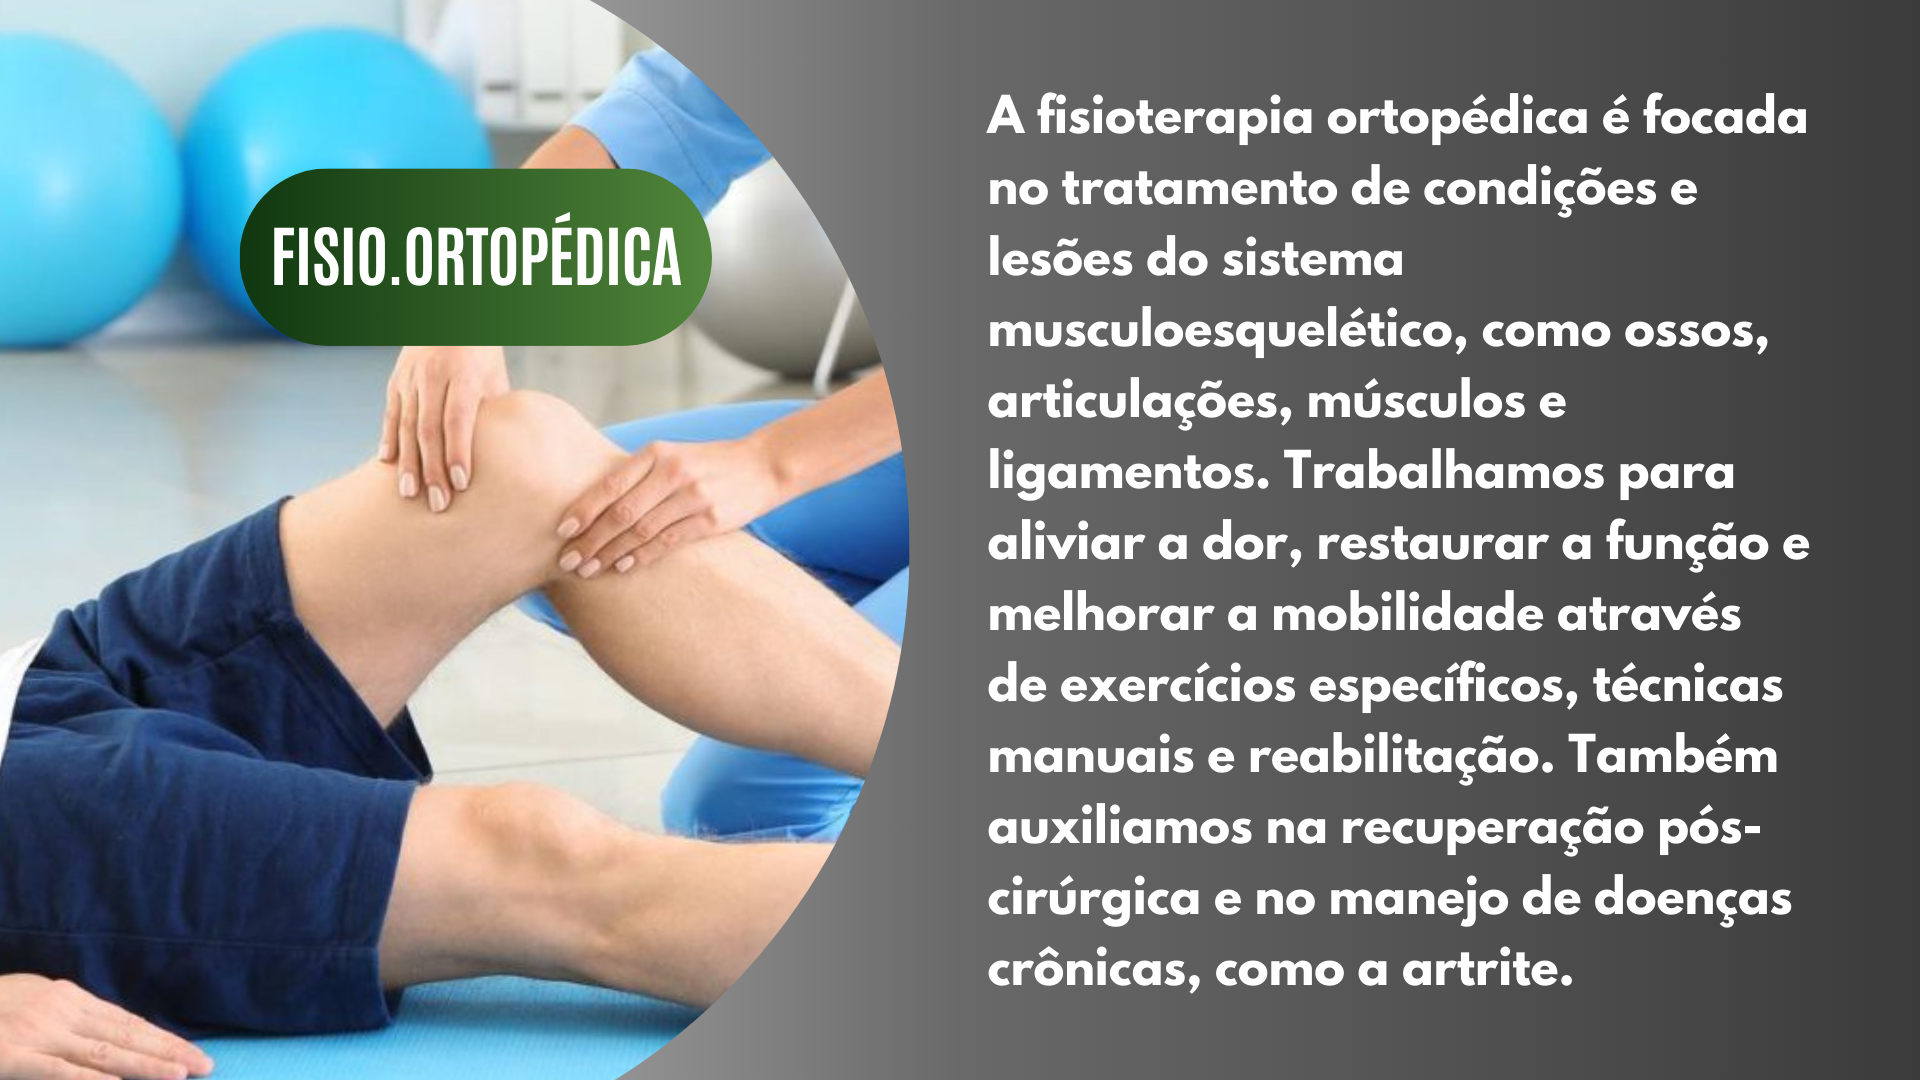
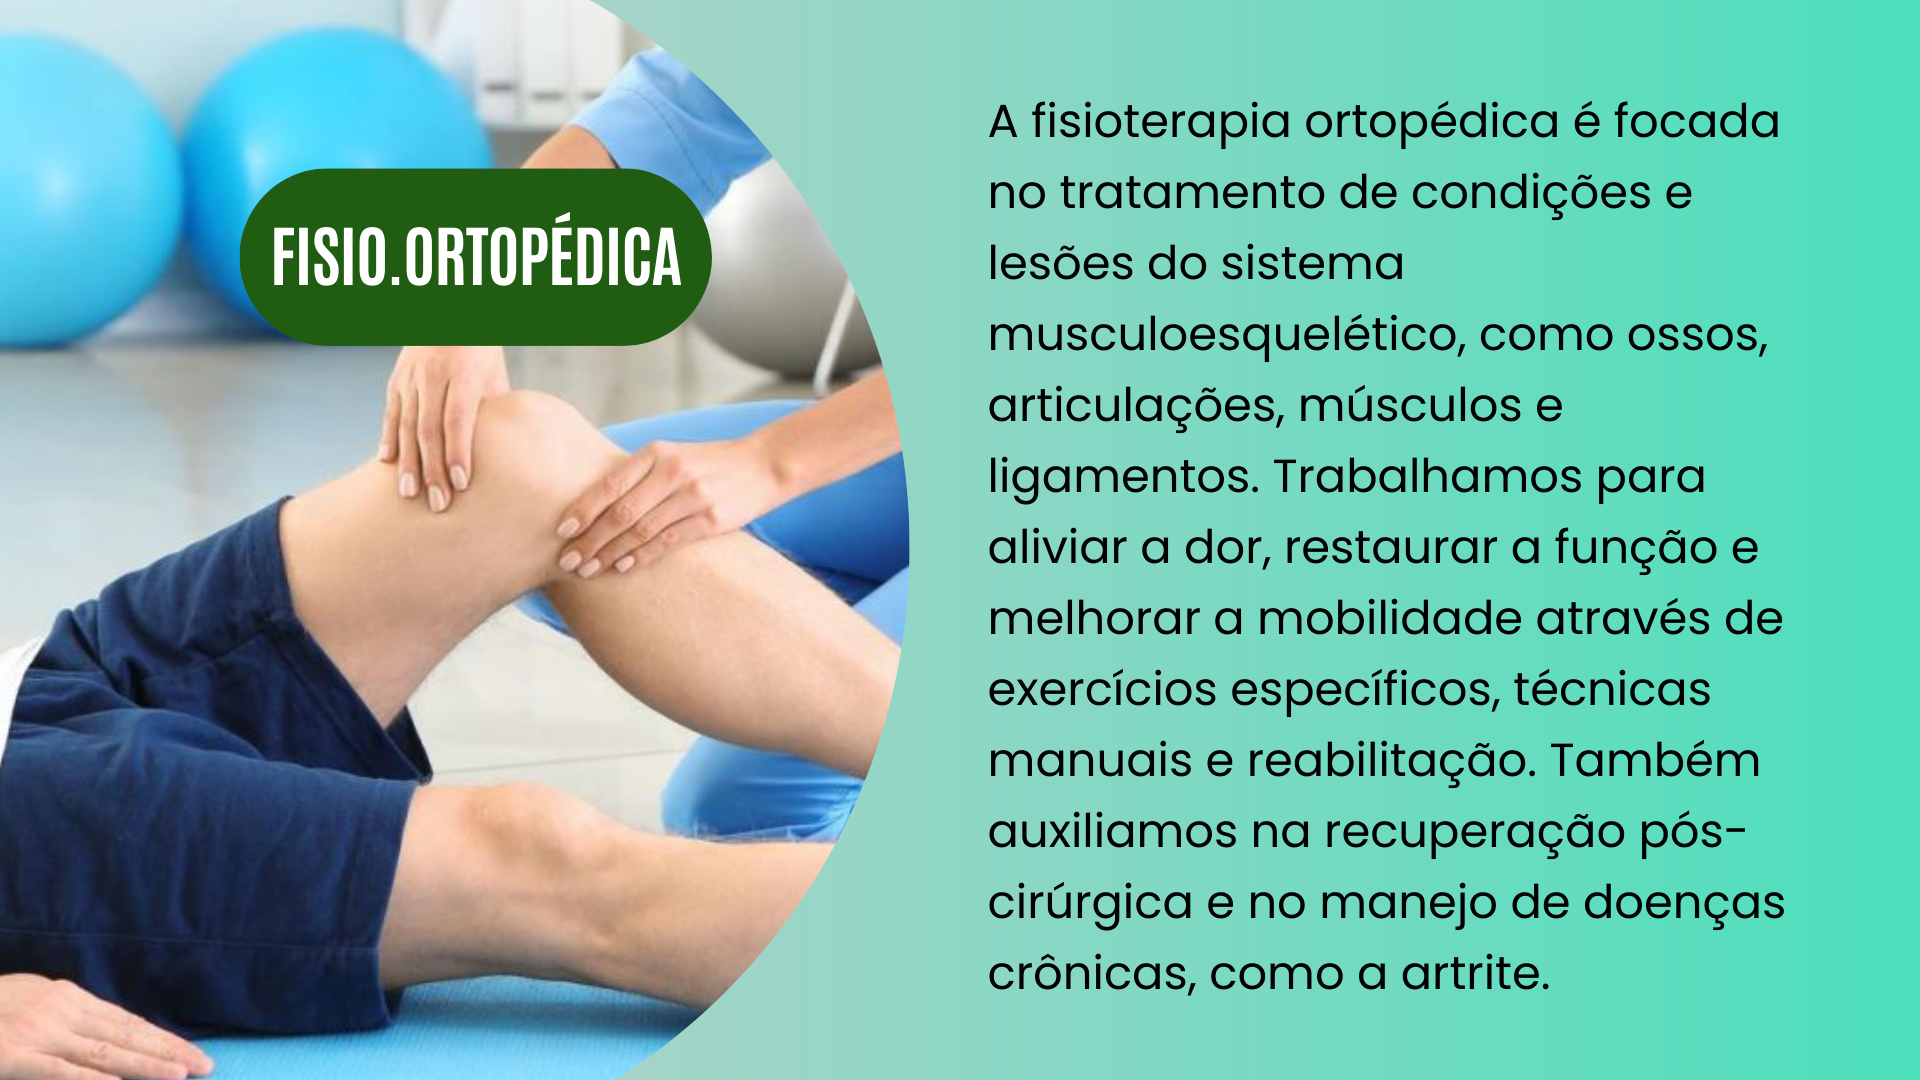
novo layout2

diff --git a/projeto fisioterapia copia/CSS/styles2.css b/projeto fisioterapia copia/CSS/styles2.css
@@ -41,18 +41,18 @@ nav li{
   width: 40%;
   margin-top: -120px;
   float: right;
-  background-color: #332c2c;
+  background-color: #ffffff;
   border-radius: 6px;
   padding: 10px;
 }
 nav button{
   background: none;
   border: none;
-  color: #ffffff;
+  color: #000000;
 }
 nav button:hover {
   background-color: #167025ce;
-  color: rgb(255, 255, 255);
+  color: rgb(0, 0, 0);
   font-size: 14px;
   transition: 0.7s;
   border-radius: 4px;
@@ -67,7 +67,7 @@ section {
   position: relative;
   width: 100%;
   height: 30vh;
-  background: #434444;
+  background: #167025ce;
   overflow: hidden;
 }
 
@@ -79,6 +79,7 @@ section .air {
   height: 100px;
   background: url(https://1.bp.blogspot.com/-xQUc-TovqDk/XdxogmMqIRI/AAAAAAAACvI/AizpnE509UMGBcTiLJ58BC6iViPYGYQfQCLcBGAsYHQ/s1600/wave.png);
   background-size: 1000px 100px
+  
 }
 
 section .air.air1 {
@@ -102,7 +103,7 @@ section .air.air3 {
   z-index: 998;
   opacity: 0.2;
   animation-delay: -2s;
-  bottom: 15px;
+  bottom: 15px;              
 }
 
 section .air.air4 {

diff --git a/projeto fisioterapia copia/index.html b/projeto fisioterapia copia/index.html
@@ -66,9 +66,9 @@
 
     <!-- The slideshow/carousel -->
     <div class="carousel-inner"
-      style="background: linear-gradient(333deg, #434444 32%, #434444); ">
+      style="background: rgba(76, 221, 197, 0.815); ">
       <div class="carousel-item active">
-        <img src="..//projeto fisioterapia copia/imagens/img1.jpg" alt="" class="d-block"
+        <img src="..//projeto fisioterapia copia/imagens/img1.png" alt="" class="d-block"
           style="width:80%; margin-left: 170px;">
       </div>
       <div class="carousel-item">
